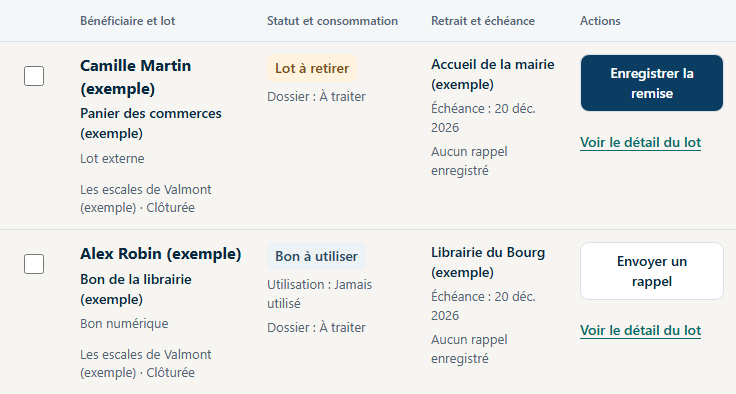
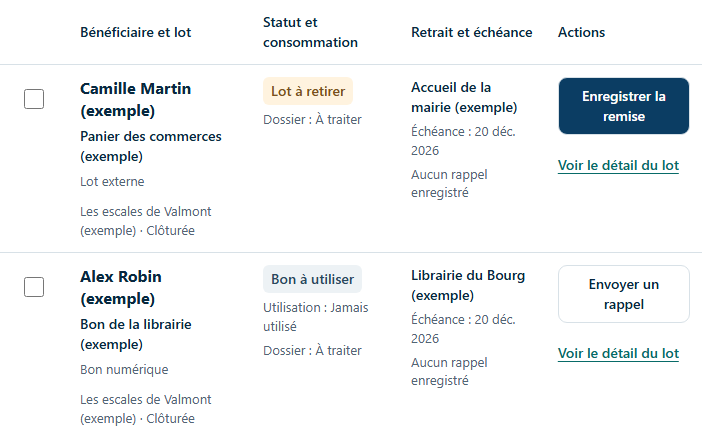
docs(animation): actualiser les captures de Lots et remises

diff --git a/docs/produit/formation/animation/illustrations/guide-quotidien/README.md b/docs/produit/formation/animation/illustrations/guide-quotidien/README.md
@@ -441,36 +441,35 @@ avec des données synthétiques. Il ne contacte pas un environnement de producti
 Ces captures complètent celles du 21 novembre ; elles ne prouvent pas un
 déploiement distant.
 
-## Ajout du 22 novembre 2026 — logistique des lots et remises
+## Logistique des lots et remises — captures actualisées le 25 novembre 2026
 
 Les captures `lots-remises-1024.png` et `lots-remises-390.png` présentent la
 liste globale **Lots et remises** : bénéficiaires, états, lieux de retrait,
-utilisation des bons et coffrets et actions disponibles. Les données sont fictives ; aucun QR, PIN ou contact réel n'est
-utilisé. Base Git Animation `9ba1e8c`, avec le correctif d'ergonomie du même lot.
-La variante 1 024 px remplace la vue de remise par animation au chapitre 11 du
-guide ; l'ancienne capture reste conservée. Les treize chapitres sont maintenus.
-La zone bureau de 736 × 394 pixels cadre les en-têtes et les deux premières
-lignes pour rester lisible dans le PDF. La capture mobile de 390 × 840 pixels
-montre la première fiche, son retrait et son action, sans modifier le DOM.
+utilisation des bons et coffrets et actions disponibles. La recette utilise
+des données fictives. Base Git Animation `4a86877` avec l’alignement de la
+liste sur Tirages. Au chapitre « Organiser le tirage et les retraits »,
+la capture bureau de 702 × 440 pixels cadre les en-têtes et les deux premières
+lignes. La capture mobile de 390 × 772 pixels va du titre de liste au bas de
+la première fiche, avec le lieu de retrait et l’action de remise.
 
 La capture s'effectue avec le banc applicatif et les API simulées décrits plus
 haut, dans le build isolé du guide sur `127.0.0.1:4182` :
 
 ```powershell
-$env:ANIMATION_TEST_DIST = 'tmp/guide-animation-dist-current'
+$env:ANIMATION_TEST_DIST = 'tmp/alignement-suivi-lots'
 node scripts/build-pwa-tests.mjs
 node tests/browser/animation-guide.mjs --only=lots-remises --captures-only
 ```
 
-La génération et le
-second build servent ensuite à relire toutes les pages du PDF et à vérifier la
-copie servie depuis l'application. Les commandes et résultats de cette passe
-sont consignés dans le
-[bilan de livraison E73](../../../../../specifications/epic-73-animation-et-ou-coffrets/verification-livraison.md).
-Cette preuve locale ne constitue pas une recette sur appareil physique ni un
-déploiement distant.
+Les 22 pages du guide versionné ont été rendues. La page 16, « Organiser
+le tirage et les retraits », contient la nouvelle capture. Le texte, les
+signets, les liens et les 21 autres pages correspondent au PDF de référence.
+La copie embarquée dans Animation est identique au PDF canonique. L'accès
+depuis l'application a été vérifié à 390 et 1 024 px.
 
-Passe exécutée : captures depuis `tmp/quality-build-oOShOO`, aucun appel
+Le [bilan de livraison E73](../../../../../specifications/epic-73-animation-et-ou-coffrets/verification-livraison.md)
+conserve les preuves de la première livraison. Passe du 22 novembre avec
+l’ancien cadrage : captures depuis `tmp/quality-build-oOShOO`, aucun appel
 inconnu, aucune erreur navigateur ni écriture. Les treize pages du PDF ont été
 rendues et relues ; la page 11 a été inspectée en détail. La copie embarquée
 est identique au PDF canonique. Le build `tmp/quality-build-ZhDZiQ` a servi le
